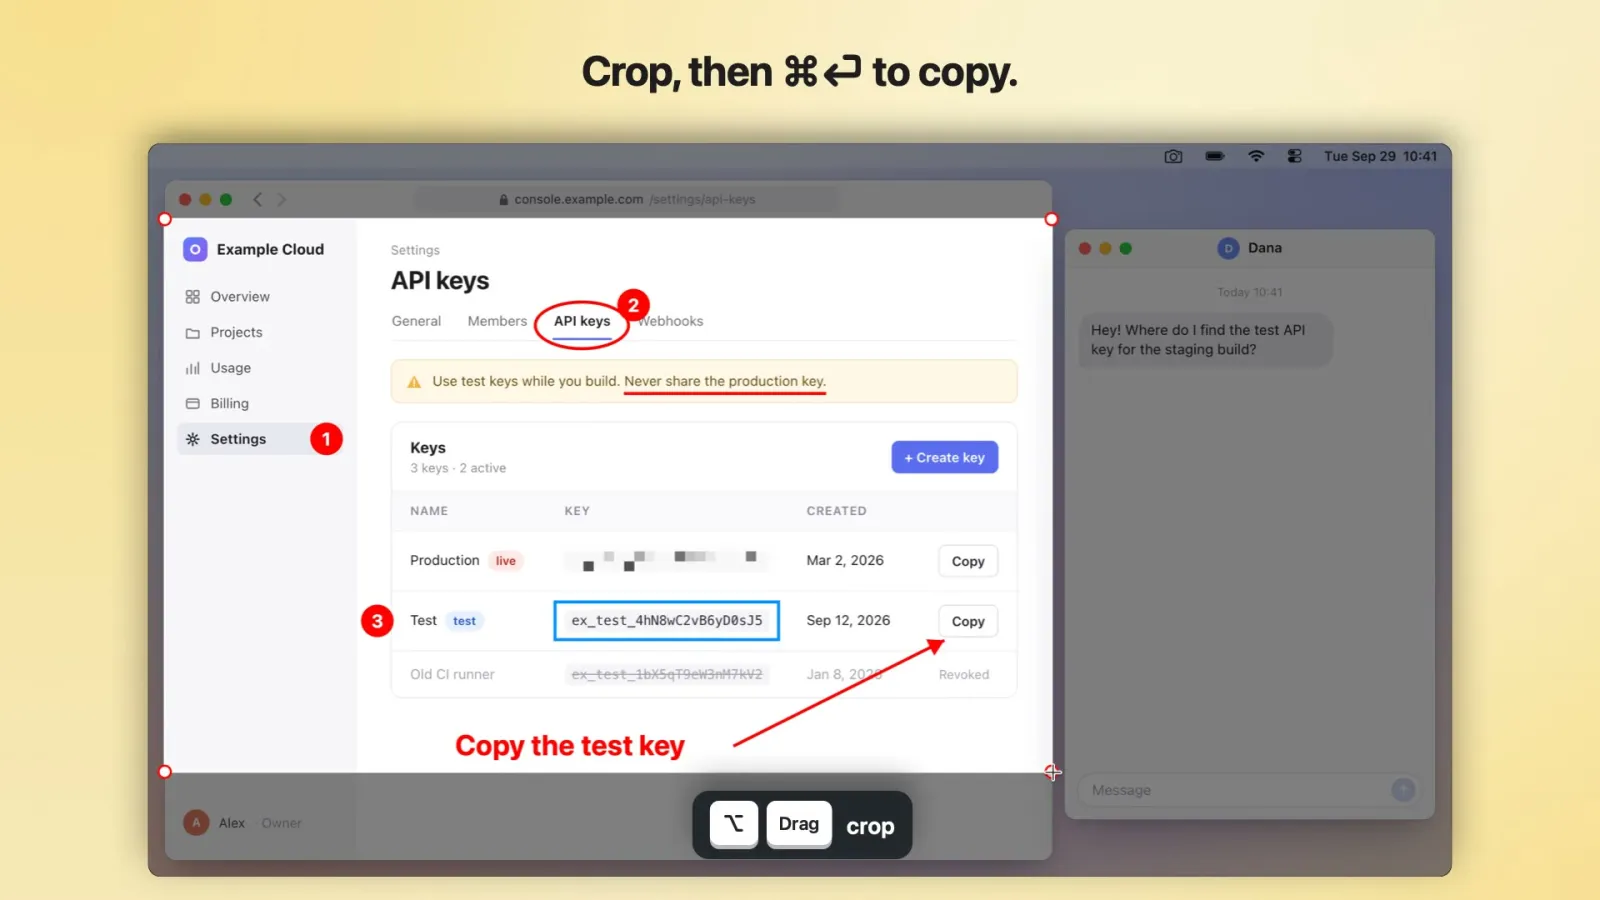
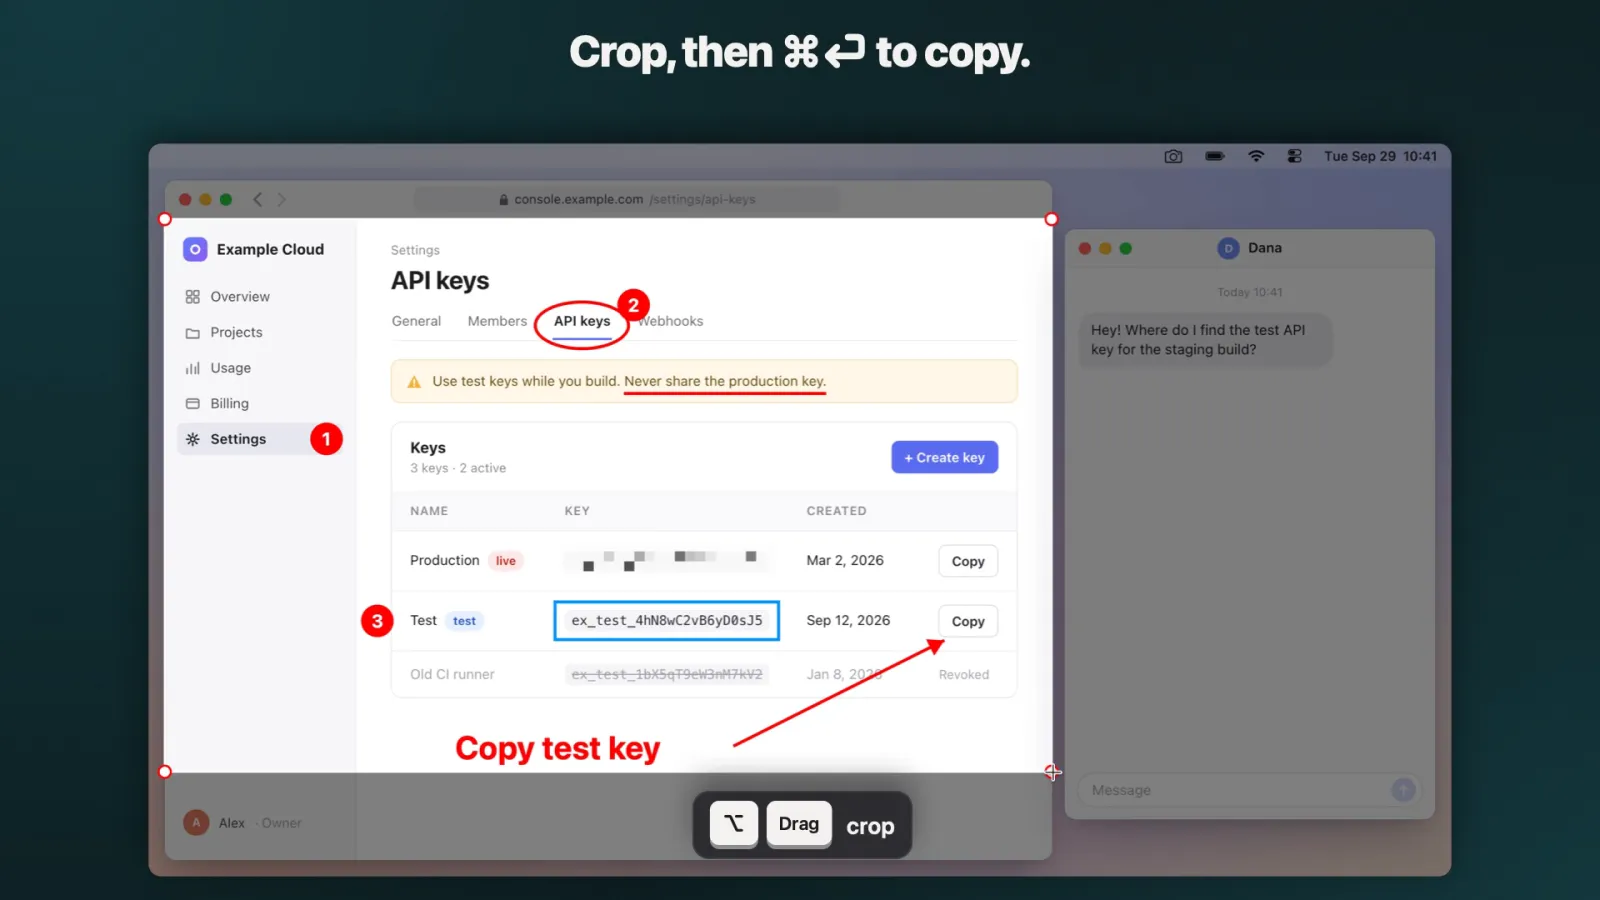
Switch the site to the new promo video and refine the demo gate
The demo video and its poster are the v3 cut: the new icon, dark
colors to match the site, new music. The gate over the playground
shows the screenshot inverted on the page's own background, shifted so
its text sits on solid color; it opens with a light "Try it" button,
a "No install needed" note and arrow, and an "or watch the video" link,
and no longer shifts the backdrop when it opens.

Entire-Checkpoint: 7ac0e19f17a0

diff --git a/docs/index.html b/docs/index.html
@@ -242,8 +242,11 @@
     .stage.pg-mode video, .stage.pg-mode .play, .stage.pg-mode .v-only, .stage.pg-mode .crop-frame > .h { display: none; }
     .stage.pg-mode .pg-win { display: block; }
     .stage.pg-mode.gated .gate { display: grid; }
-    .stage.pg-mode:not(.gated) .pg-bar { display: flex; }
-    .stage.can-play:not(.gated) .switch { display: inline-block; }
+    .stage.pg-mode .pg-bar { display: flex; }
+    .stage.can-play .switch { display: inline-block; }
+    /* while gated, the bar and the link hold their space, so the section (and its backdrop) keeps its size when the blur opens */
+    .stage .pg-bar, .stage .switch { transition: opacity .3s ease; }
+    .stage.gated .pg-bar, .stage.gated .switch { visibility: hidden; opacity: 0; }
     .stage.pg-mode .crop-frame { outline: 0; border-radius: 12px; }
     .stage-cap.below .switch { order: -1; margin-right: auto; }
     .switch {
@@ -296,20 +299,29 @@
 
     /* the gate: the playground under Skryn's pixel blur, until you choose */
     .gate { position: absolute; inset: 0; z-index: 3; place-items: center; border-radius: 12px; overflow: hidden; }
-    .gate > canvas { position: absolute; inset: 0; width: 100%; height: 100%; image-rendering: pixelated; }
-    .gate::before { content: ""; position: absolute; inset: 0; z-index: 1; background: rgba(12, 12, 18, .42); transition: opacity .35s ease; }
+    /* inverted, so the white screenshot turns dark like the page; it un-inverts as the blur opens */
+    .gate > canvas { position: absolute; inset: 0; width: 100%; height: 100%; image-rendering: pixelated; filter: invert(1) brightness(.75); transition: filter .5s ease; }
+    .gate.opening > canvas { filter: invert(0) brightness(1); }
+    .gate::before { content: ""; position: absolute; inset: 0; z-index: 1; background: var(--paper); mix-blend-mode: lighten; transition: opacity .35s ease; } /* nothing darker than the page */
     .gate-ui { position: relative; z-index: 2; display: grid; justify-items: center; gap: 16px; padding: 24px; text-align: center; color: #fff; transition: opacity .25s ease; }
-    .gate-btns { display: flex; flex-wrap: wrap; justify-content: center; gap: 12px; }
+    .gate-btns { display: flex; flex-wrap: wrap; justify-content: center; align-items: center; gap: 14px; }
     .gate-btns button {
       display: inline-flex; align-items: center; gap: 9px; border: 0; border-radius: 999px; cursor: pointer;
       padding: 15px 28px; font: 700 18px/1 var(--sans); letter-spacing: -.01em; transition: transform .15s ease;
     }
     .gate-btns button:hover { transform: translateY(-1px); }
     .gate-btns button:focus-visible { outline: 3px solid #fff; outline-offset: 3px; }
-    .gate-try { background: var(--red); color: #fff; box-shadow: 0 8px 28px rgba(255, 40, 40, .35); }
-    .gate-watch { background: rgba(255, 255, 255, .94); color: #1d1d1f; }
-    .gate-watch svg { width: 15px; height: 15px; }
-    .gate-ui p { font-size: 15px; font-weight: 500; color: rgba(255, 255, 255, .88); text-shadow: 0 1px 8px rgba(0, 0, 0, .35); }
+    /* the page's main-button look (like Download); red stays for the marks */
+    .gate-try { background: var(--ink); color: var(--paper); box-shadow: 0 6px 20px rgba(0, 0, 0, .25); }
+    .gate-btns .gate-watch {
+      padding: 6px 2px; border-radius: 4px; background: none; color: #fff;
+      font-size: 16px; font-weight: 600; text-decoration: underline; text-underline-offset: 3px; text-decoration-thickness: 1.5px;
+      text-shadow: 0 1px 8px rgba(0, 0, 0, .35);
+    }
+    .gate-btns .gate-watch:hover { transform: none; opacity: .8; }
+    .gate-cap { max-width: 24em; text-wrap: balance; font-size: 15px; font-weight: 500; color: rgba(255, 255, 255, .88); text-shadow: 0 1px 8px rgba(0, 0, 0, .35); }
+    .gate-note { justify-self: start; margin: 0 0 64px -110px; font-size: 24px; }
+    @media (max-width: 760px) { .gate-note { margin: 0 0 48px; } }
     .gate-tag { position: absolute; z-index: 2; top: 14px; right: 14px; }
     .gate.opening::before, .gate.opening .gate-ui, .gate.opening .gate-tag { opacity: 0; }
 
@@ -526,8 +538,8 @@
       </div>
       <div class="crop-frame">
         <video controls playsinline preload="none" poster="assets/poster.webp" aria-label="Skryn demo video: capture, annotate, crop and paste">
-          <source src="https://github.com/user-attachments/assets/fad9d1f0-c079-474f-95c9-f9be2e1e02a7" type="video/mp4">
-          <a href="https://github.com/user-attachments/assets/fad9d1f0-c079-474f-95c9-f9be2e1e02a7">Watch the demo video</a>
+          <source src="https://github.com/user-attachments/assets/e71aa5b3-80e6-4399-9993-0efe7728c68f" type="video/mp4">
+          <a href="https://github.com/user-attachments/assets/e71aa5b3-80e6-4399-9993-0efe7728c68f">Watch the demo video</a>
         </video>
         <button class="play" type="button" aria-label="Play the demo video"><span><svg viewBox="0 0 24 24" aria-hidden="true"><path d="M8 5.2v13.6a1 1 0 0 0 1.5.86l11-6.8a1 1 0 0 0 0-1.72l-11-6.8A1 1 0 0 0 8 5.2Z" fill="currentColor"/></svg></span></button>
         <div class="pg-win" id="pg" tabindex="0" role="application" aria-roledescription="annotation playground" inert
@@ -538,12 +550,13 @@
         </div>
         <div class="gate">
           <canvas aria-hidden="true"></canvas>
-          <div class="gate-ui">
+          <div class="gate-ui" data-ink>
+            <p class="note gate-note" data-mark="arrow" data-to="#gate-try" data-gap="12">No install needed</p>
             <div class="gate-btns">
-              <button type="button" class="gate-try">Try it</button>
-              <button type="button" class="gate-watch"><svg viewBox="0 0 24 24" aria-hidden="true"><path d="M8 5.2v13.6a1 1 0 0 0 1.5.86l11-6.8a1 1 0 0 0 0-1.72l-11-6.8A1 1 0 0 0 8 5.2Z" fill="currentColor"/></svg>Watch the video</button>
+              <button type="button" class="gate-try" id="gate-try">Try it</button>
+              <button type="button" class="gate-watch">or watch the video</button>
             </div>
-            <p>A browser replica of the annotation window, with the app's keys.</p>
+            <p class="gate-cap">A browser replica of the annotation window, with the app's keys.</p>
           </div>
           <span class="keys sm gate-tag" aria-hidden="true"><kbd>⌃</kbd><kbd>Drag</kbd><b>blur</b></span>
         </div>
@@ -698,7 +711,7 @@
     <!-- INSTALL -->
     <section id="install" class="wrap sec" aria-labelledby="inst-h">
       <div class="sec-head">
-        <h2 id="inst-h">Installation</h2>
+        <h2 id="inst-h">Installation.</h2>
       </div>
       <div class="install">
         <ol data-ink>
@@ -976,21 +989,54 @@
       label();
 
       // Skryn's blur over the whole frame, with the app's block size for an image this big: max(w, h) / 40
-      function drawGate(block, gray) {
+      // shiftK: how much of the text-clearing shift to apply (1 while gated, sliding to 0 as the blur opens)
+      function drawGate(block, gray, shiftK = 1) {
         const dpr = Math.min(devicePixelRatio || 1, 2);
         gc.width = Math.round(gc.clientWidth * dpr); gc.height = Math.round(gc.clientHeight * dpr);
         const g = gc.getContext('2d');
+        const kx = gc.width / gateSrc.width, ky = gc.height / gateSrc.height;
         if (block <= 2) { g.imageSmoothingEnabled = true; g.drawImage(gateSrc, 0, 0, gc.width, gc.height); return; }
         const m = mosaic(gateSrc, 0, 0, gateSrc.width, gateSrc.height, block, gray);
+        g.fillStyle = '#fff'; g.fillRect(0, 0, gc.width, gc.height); // what a shift uncovers inverts to page color
         g.imageSmoothingEnabled = false;
-        g.drawImage(m.canvas, 0, 0, m.nx * block * gc.width / gateSrc.width, m.ny * block * gc.height / gateSrc.height);
+        g.drawImage(m.canvas, shift.x * block0 * kx * shiftK, shift.y * block0 * ky * shiftK, m.nx * block * kx, m.ny * block * ky);
       }
+
+      // The shift, in whole blocks, that leaves the gate's caption on solid page color, and if possible the note and the link too.
+      // A block this light (or no block at all) inverts to the page color or darker.
+      let shift = { x: 0, y: 0 };
+      function findShift() {
+        shift = { x: 0, y: 0 };
+        try {
+          const m = mosaic(gateSrc, 0, 0, gateSrc.width, gateSrc.height, block0);
+          const px = m.canvas.getContext('2d').getImageData(0, 0, m.nx, m.ny).data;
+          const b = gate.getBoundingClientRect(), cw = b.width * block0 / gateSrc.width, ch = b.height * block0 / gateSrc.height;
+          const light = (i, j) => i < 0 || j < 0 || i >= m.nx || j >= m.ny || px[(j * m.nx + i) * 4] >= 227;
+          const blocksBehind = (el, dx, dy) => {
+            const r = el.getBoundingClientRect(), pad = .25;
+            let n = 0;
+            for (let j = Math.floor((r.top - b.top) / ch - pad); j < Math.ceil((r.bottom - b.top) / ch + pad); j++)
+              for (let i = Math.floor((r.left - b.left) / cw - pad); i < Math.ceil((r.right - b.left) / cw + pad); i++)
+                if (!light(i - dx, j - dy)) n++;
+            return n;
+          };
+          const cap = gate.querySelector('.gate-cap'), extras = [gate.querySelector('.gate-note'), gate.querySelector('.gate-watch')];
+          // fewest blocks behind the caption first, then the note and the link clear, then the smallest shift
+          let best = null;
+          for (let dy = -6; dy <= 6; dy++) for (let dx = -6; dx <= 6; dx++) {
+            const score = -blocksBehind(cap, dx, dy) * 1e4 + extras.filter((el) => !blocksBehind(el, dx, dy)).length * 100 - Math.abs(dx) - Math.abs(dy);
+            if (!best || score > best.score) best = { x: dx, y: dy, score };
+          }
+          shift = { x: best.x, y: best.y };
+        } catch (e) { /* tainted canvas (file://): no shift */ }
+      }
+      const redrawGate = () => { findShift(); drawGate(block0, 1); };
       pg.addEventListener('pg-ready', (e) => {
         gateSrc = e.detail.composite();
         block0 = Math.max(gateSrc.width, gateSrc.height) / 40;
-        drawGate(block0, 1);
+        redrawGate();
       });
-      new ResizeObserver(() => { if (gateSrc && demo.classList.contains('gated') && !opening) drawGate(block0, 1); }).observe(gate);
+      new ResizeObserver(() => { if (gateSrc && demo.classList.contains('gated') && !opening) redrawGate(); }).observe(gate);
 
       function open() {
         const done = () => {
@@ -1002,7 +1048,7 @@
         const t0 = performance.now(), dur = 520;
         const step = (now) => {
           const k = Math.min(1, (now - t0) / dur), e = 1 - Math.pow(1 - k, 3);
-          drawGate(block0 * Math.pow(2 / block0, e), 1 - e); // blocks shrink to 2px, color comes back
+          drawGate(block0 * Math.pow(2 / block0, e), 1 - e, 1 - e); // blocks shrink to 2px, color and position come back
           k < 1 ? requestAnimationFrame(step) : done();
         };
         requestAnimationFrame(step);
